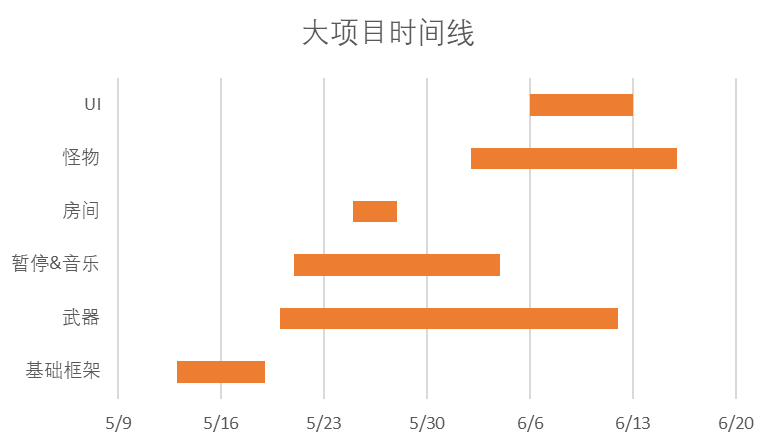
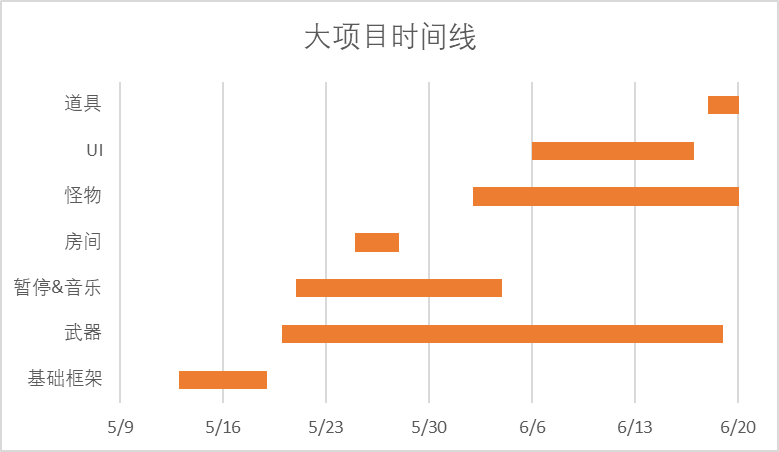
更新了部分项目计划

diff --git a/docs/src/project.md b/docs/src/project.md
@@ -17,6 +17,13 @@
 名字|分工
 ---|---
 曾富楠|人物、地图、封装物理引擎
-安江涛|怪物、暂停
+安江涛|怪物（及对应武器）、暂停
 李沁心|武器
-香宁雨|音乐、UI
+香宁雨|音乐、UI、道具
+
+## 开发难点
+* 问题：cocos2d-x引擎加载的瓦片地图难以注入代码；解决：利用每个节点都有的Component，把对应的互动作为`Component`的衍生来存储于地图的对应图块
+* 问题：难以寻找并处理地图中的房间；解决：地图中预先标记类别为"room"的图块，读取时将其作为一个房间的内侧。
+* 问题：地图预处理时产生的房间`Room`在返回的过程中多次利用移动语义转手，指针不定；解决：每个房间存储一个指向自己的`unique_ptr<Room>`，需要引用房间时使用对应的双重指针`Room**`。
+* 问题：cocos2d-x的物理引擎包装过于严密，难以使用；解决：重新包装chipmunk引擎。
+* 问题：包装时产生的物理空间Space和物理刚体Body互相引用，难以析构；解决：每个刚体存储一个`shared_ptr<Space>`，保证物理空间在物理刚体之后析构。
